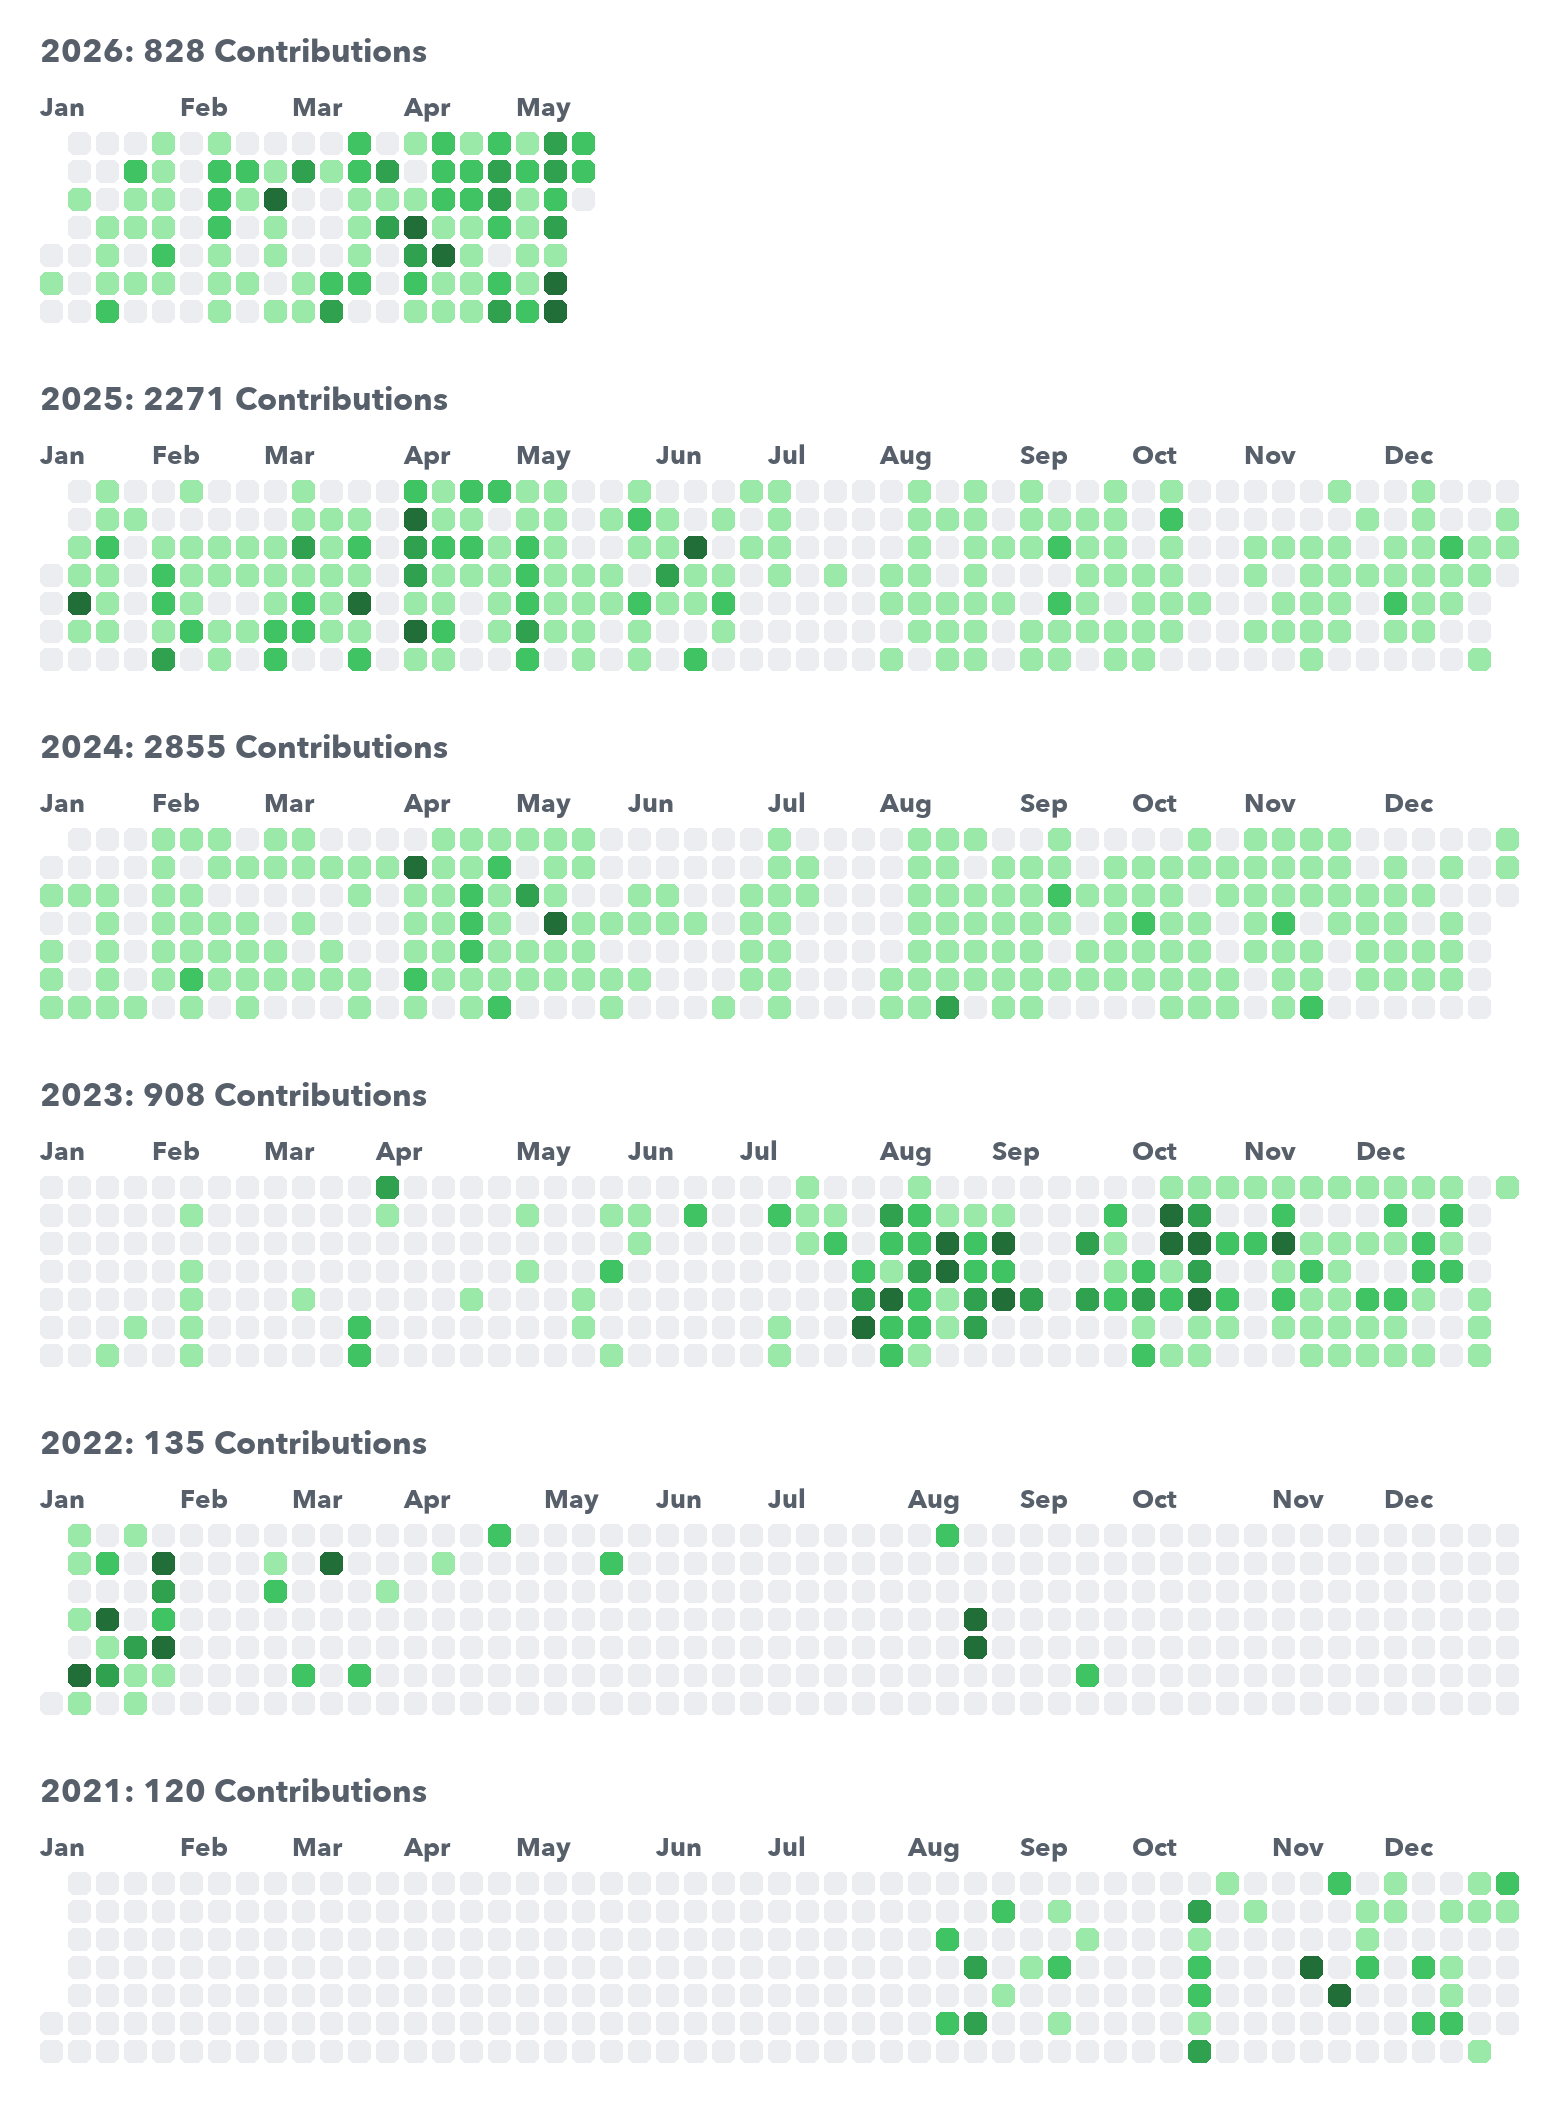
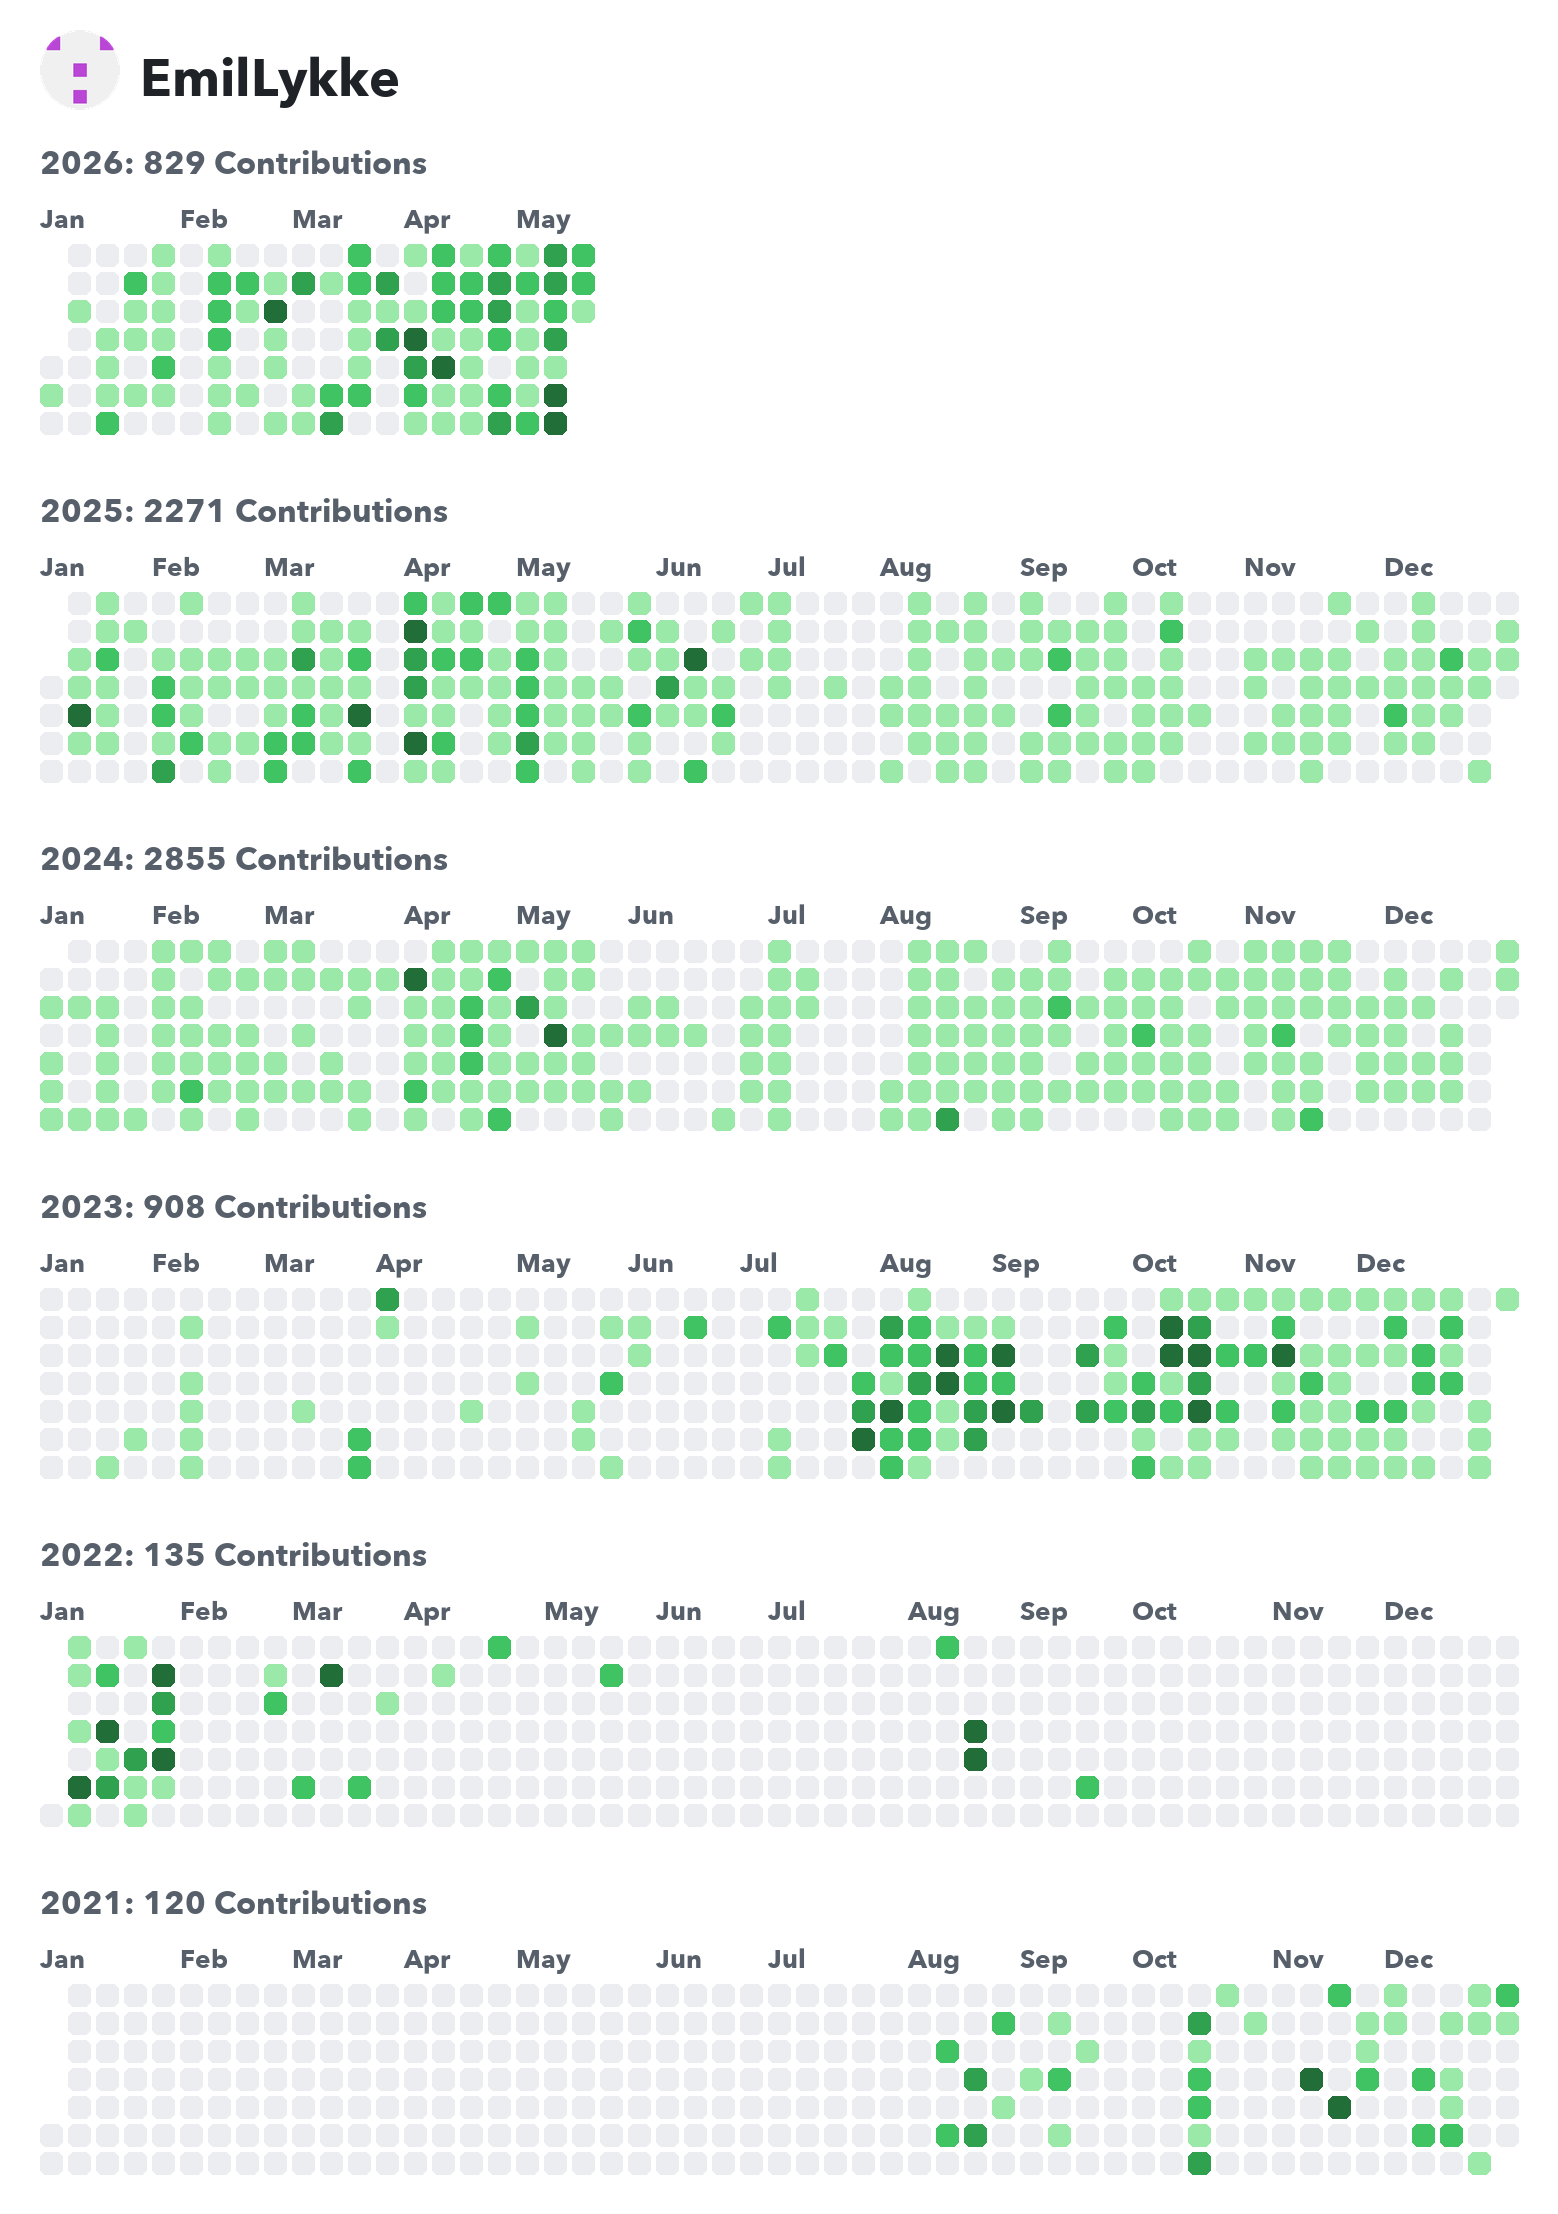
torvalds

diff --git a/am_i_active.py b/am_i_active.py
@@ -125,6 +125,7 @@ def get_user_info(token, username):
       user(login: $username) {
         login
         avatarUrl
+        createdAt
       }
     }
     """
@@ -320,7 +321,11 @@ def main():
 
     if args.user and args.user != viewer["login"]:
         user_info = get_user_info(token, args.user)
-        avatar_url = user_info["avatarUrl"] if user_info else viewer["avatarUrl"]
+        if user_info:
+            avatar_url = user_info["avatarUrl"]
+            created_year = int(user_info["createdAt"][:4])
+        else:
+            avatar_url = viewer["avatarUrl"]
     else:
         avatar_url = viewer["avatarUrl"]
 